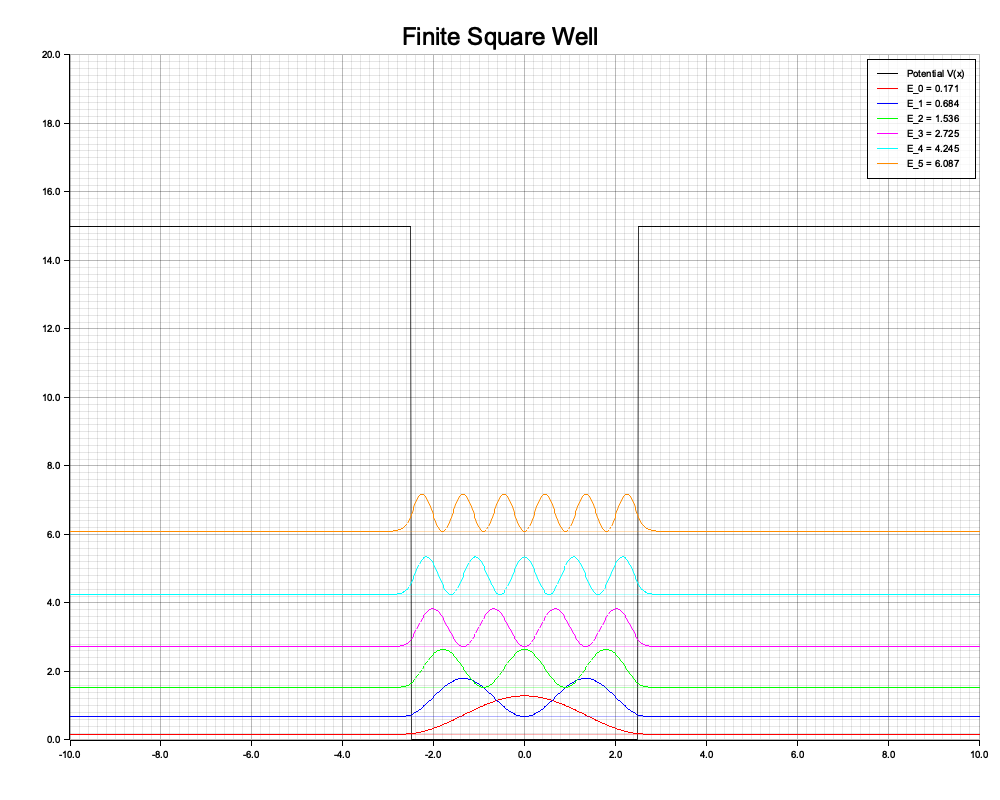
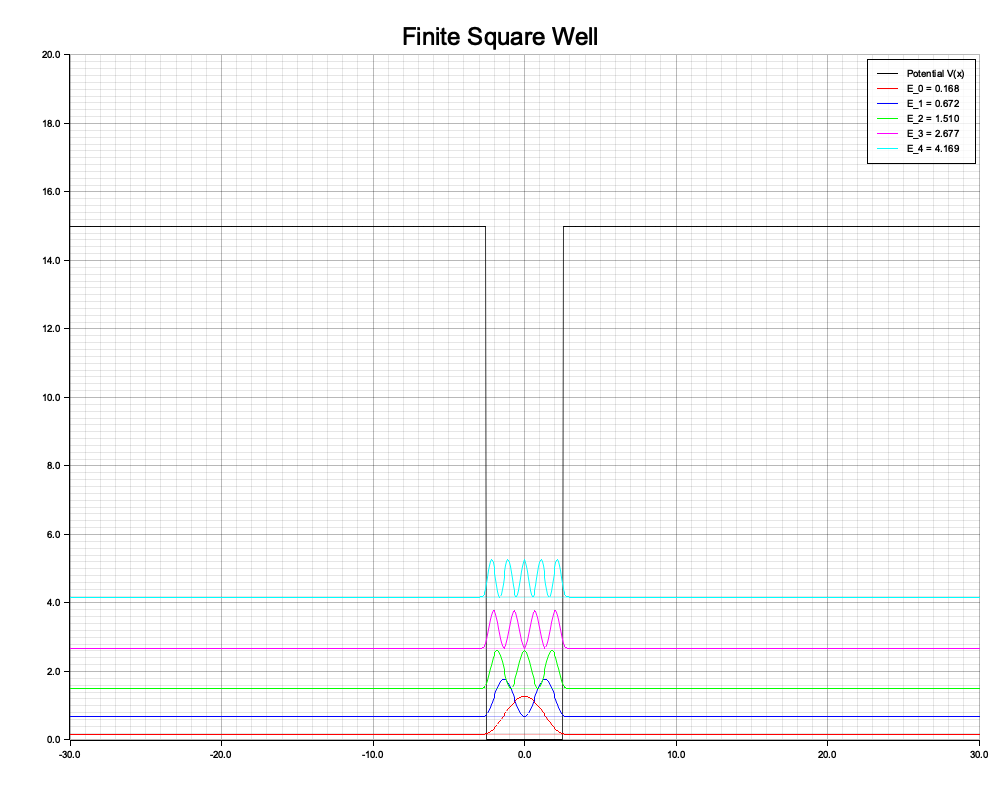
Feat: Add time-dependent eigenbasis expansion for quantum wavepacket tunneling

diff --git a/src/main.rs b/src/main.rs
@@ -1,38 +1,41 @@
 use nalgebra::{DMatrix, SymmetricEigen};
+use num_complex::Complex;
 use plotters::prelude::*;
+use std::f64::consts::PI;
 
-const N: usize = 1000; // grid points
-const L: f64 = 20.0;  // box size [-L/2, L/2]
+const N: usize = 1000;
+const L: f64 = 60.0; // wider box
 
-/// Different potential well types
 pub enum Potential {
     InfiniteSquareWell,
     FiniteSquareWell { width: f64, depth: f64 },
     HarmonicOscillator { k: f64 },
+    FiniteBarrier { width: f64, height: f64 },
 }
 
 impl Potential {
     fn value(&self, x: f64) -> f64 {
         match self {
-            Self::InfiniteSquareWell => 0.0, // Walls are implicitly infinite naturally by boundary
+            Self::InfiniteSquareWell => 0.0,
             Self::FiniteSquareWell { width, depth } => {
                 if x.abs() < *width / 2.0 { 0.0 } else { *depth }
             }
             Self::HarmonicOscillator { k } => 0.5 * k * x * x,
+            Self::FiniteBarrier { width, height } => {
+                if x.abs() < *width / 2.0 { *height } else { 0.0 }
+            }
         }
     }
 }
 
-/// Solves TISE H psi = E psi
 fn solve_tise(potential: &Potential, n_states: usize) -> Vec<(f64, Vec<f64>)> {
     let dx = L / (N as f64 - 1.0);
     let mut h = DMatrix::<f64>::zeros(N, N);
-    let t_coeff = 1.0 / (2.0 * dx * dx); // Using hbar=1, m=1
+    let t_coeff = 1.0 / (2.0 * dx * dx); 
     
     for i in 0..N {
         let x = -L / 2.0 + (i as f64) * dx;
         let v_i = potential.value(x);
-        
         h[(i, i)] = 2.0 * t_coeff + v_i;
         if i > 0 {
             h[(i, i - 1)] = -t_coeff;
@@ -48,25 +51,26 @@ fn solve_tise(potential: &Potential, n_states: usize) -> Vec<(f64, Vec<f64>)> {
     for i in 0..n_states.min(N) {
         let idx = evals[i].0;
         let energy = evals[i].1;
-        
-        // Extract eigenvector
         let col = eig.eigenvectors.column(idx);
         let mut psi: Vec<f64> = col.iter().copied().collect();
-        
-        // Normalize psi: sum(|psi|^2 dx) = 1
         let norm_sq: f64 = psi.iter().map(|&p| p * p * dx).sum();
         let norm = norm_sq.sqrt();
         for p in &mut psi { *p /= norm; }
         
-        // Ensure consistent phase (first large peak is positive)
-        let max_elem = psi.iter().max_by(|a, b| a.abs().partial_cmp(&b.abs()).unwrap()).unwrap();
-        if *max_elem < 0.0 {
+        let mut max_abs = 0.0;
+        let mut max_elem = 0.0;
+        for &p in &psi {
+            if p.abs() > max_abs {
+                max_abs = p.abs();
+                max_elem = p;
+            }
+        }
+        
+        if max_elem < 0.0 {
             for p in &mut psi { *p = -*p; }
         }
-
         results.push((energy, psi));
     }
-    
     results
 }
 
@@ -83,61 +87,133 @@ fn plot_results(
     
     let root = BitMapBackend::new(filename, (1000, 800)).into_drawing_area();
     root.fill(&WHITE)?;
-    
     let max_x = L / 2.0;
-    let min_x = -max_x;
-
+    
     let mut chart = ChartBuilder::on(&root)
         .caption(title, ("sans-serif", 30))
         .margin(20)
         .x_label_area_size(40)
         .y_label_area_size(50)
-        .build_cartesian_2d(min_x..max_x, 0.0..y_max)?;
-
+        .build_cartesian_2d(-max_x..max_x, 0.0..y_max)?;
     chart.configure_mesh().draw()?;
 
-    // Plot potential
     chart.draw_series(LineSeries::new(
         xs.iter().zip(vs.iter()).filter(|&(_, &v)| v <= y_max + 10.0).map(|(&x, &v)| (x, v)),
         &BLACK.mix(0.8),
-    ))?
-    .label("Potential V(x)")
-    .legend(|(x, y)| PathElement::new(vec![(x, y), (x + 20, y)], &BLACK));
+    ))?.label("Potential V(x)").legend(|(x, y)| PathElement::new(vec![(x, y), (x + 20, y)], &BLACK));
 
     let colors = [&RED, &BLUE, &GREEN, &MAGENTA, &CYAN, &RGBColor(255, 140, 0)];
-    let factor = 3.0; // scaling factor for probability density
+    let factor = 3.0; 
 
-    // Plot states
     for (i, (energy, psi)) in results.iter().enumerate() {
         let color = colors[i % colors.len()];
-        
         let path: Vec<(f64, f64)> = xs.iter().zip(psi.iter())
-            .map(|(&x, &p)| (x, *energy + factor * p * p))
-            .collect();
-            
+            .map(|(&x, &p)| (x, *energy + factor * p * p)).collect();
         chart.draw_series(LineSeries::new(path, color))?
             .label(format!("E_{} = {:.3}", i, energy))
             .legend(move |(x, y)| PathElement::new(vec![(x, y), (x + 20, y)], color));
-            
-        // Plot energy level line
-        chart.draw_series(LineSeries::new(
-            vec![(min_x, *energy), (max_x, *energy)],
-            color.mix(0.3),
-        ))?;
+        chart.draw_series(LineSeries::new(vec![(-max_x, *energy), (max_x, *energy)], color.mix(0.3)))?;
     }
-
-    chart.configure_series_labels()
-        .background_style(&WHITE.mix(0.8))
-        .border_style(&BLACK)
-        .position(SeriesLabelPosition::UpperRight)
-        .draw()?;
-
+    chart.configure_series_labels().background_style(&WHITE.mix(0.8)).border_style(&BLACK).position(SeriesLabelPosition::UpperRight).draw()?;
     root.present()?;
     Ok(())
 }
 
+fn simulate_tunneling() -> Result<(), Box<dyn std::error::Error>> {
+    println!("Simulating tunneling... Solving complete eigensystem (this takes a few seconds)");
+    // A barrier at the center with width 2 and height 12.0
+    let barrier = Potential::FiniteBarrier { width: 3.0, height: 12.0 };
+    let dx = L / (N as f64 - 1.0);
+    
+    // We get 600 states to form a good detailed basis for the localized wavepacket
+    let num_states = 600;
+    let results = solve_tise(&barrier, num_states);
+    
+    // Initial Wavepacket properties
+    let x0 = -15.0;            // start on the left
+    let sigma: f64 = 2.0;      // width
+    // Average Energy roughly = k0^2 / 2 = 12.5 (a bit over or around the barrier)
+    let k0: f64 = 5.0;         // initial momentum
+    
+    // Construct psi_0
+    let mut psi_0 = vec![Complex::new(0.0, 0.0); N];
+    let mut norm_sq = 0.0;
+    for i in 0..N {
+        let x = -L / 2.0 + (i as f64) * dx;
+        let envelope = (-0.5 * ((x - x0) / sigma).powi(2)).exp();
+        psi_0[i] = Complex::new(envelope * (k0 * x).cos(), envelope * (k0 * x).sin());
+        norm_sq += psi_0[i].norm_sqr() * dx;
+    }
+    let norm = norm_sq.sqrt();
+    for p in &mut psi_0 { *p /= norm; }
+    
+    // c_n = <psi_n | psi_0>
+    let mut c_n = vec![Complex::new(0.0, 0.0); num_states];
+    for n in 0..num_states {
+        let mut c = Complex::new(0.0, 0.0);
+        for i in 0..N {
+            c += psi_0[i] * results[n].1[i] * dx;
+        }
+        c_n[n] = c;
+    }
+    
+    // Render loop
+    println!("Rendering gif...");
+    let root = BitMapBackend::gif("tunneling.gif", (1000, 600), 100)?.into_drawing_area();
+    let num_frames = 150;
+    let dt = 0.02;
+    let max_x = 25.0; // zoom in somewhat
+    let min_x = -max_x;
+    
+    let xs: Vec<f64> = (0..N).map(|i| -L / 2.0 + (i as f64) * dx).collect();
+    let vs: Vec<f64> = xs.iter().map(|&x| barrier.value(x)).collect();
+    let v_path: Vec<(f64, f64)> = xs.iter().zip(vs.iter()).filter(|&(_, &v)| v <= 15.0).map(|(&x, &v)| (x, v)).collect();
+    
+    for frame in 0..num_frames {
+        let t = (frame as f64) * dt;
+        
+        let mut psi_t = vec![Complex::new(0.0, 0.0); N];
+        for n in 0..num_states {
+            let energy = results[n].0;
+            // e^{-i E_n t}
+            let phase = -energy * t;
+            let time_factor = c_n[n] * Complex::new(phase.cos(), phase.sin());
+            for i in 0..N {
+                psi_t[i] += time_factor * results[n].1[i];
+            }
+        }
+        
+        root.fill(&WHITE)?;
+        let mut chart = ChartBuilder::on(&root)
+            .caption(format!("Quantum Tunneling (t = {:.2})", t), ("sans-serif", 30))
+            .margin(20)
+            .x_label_area_size(40)
+            .y_label_area_size(50)
+            .build_cartesian_2d(min_x..max_x, 0.0..18.0)?;
+            
+        chart.configure_mesh().draw()?;
+        
+        chart.draw_series(LineSeries::new(v_path.clone(), &BLACK.mix(0.8)))?
+            .label("Barrier V(x)");
+            
+        let density: Vec<(f64, f64)> = xs.iter().zip(psi_t.iter())
+            .map(|(&x, &p)| (x, p.norm_sqr() * 25.0)) // scale probability up for visibility
+            .collect();
+            
+        chart.draw_series(AreaSeries::new(density.clone(), 0.0, &BLUE.mix(0.2)))?;
+        chart.draw_series(LineSeries::new(density, &BLUE))?
+            .label("Probability Density |ψ|²");
+            
+        chart.configure_series_labels().position(SeriesLabelPosition::UpperRight).draw()?;
+        root.present()?;
+    }
+    
+    println!("tunneling.gif generated.");
+    Ok(())
+}
+
 fn main() -> Result<(), Box<dyn std::error::Error>> {
-    let num_states = 6;
+    let num_states = 5;
     
     println!("Solving Infinite Square Well...");
     let isw = Potential::InfiniteSquareWell;
@@ -154,6 +230,8 @@ fn main() -> Result<(), Box<dyn std::error::Error>> {
     let results_qho = solve_tise(&qho, num_states);
     plot_results(&qho, &results_qho, "harmonic_oscillator.png", "Quantum Harmonic Oscillator", results_qho.last().unwrap().0 + 5.0)?;
     
-    println!("Plots generated successfully.");
+    simulate_tunneling()?;
+    
+    println!("All plots generated successfully.");
     Ok(())
 }

diff --git a/README.md b/README.md
@@ -16,6 +16,11 @@ The plots correctly reflect quantum physics behaviors—the lower energy wavefun
 
 ![Quantum Harmonic Oscillator](harmonic_oscillator.png)
 
+## Dynamic Quantum Tunneling
+Using an exact mathematical Eigenbasis Expansion combined onto our engine, we simulated the exact Time-Dependent Schrödinger evolution showcasing a bounded continuous Gaussian wavepacket striking a strong finite barrier and tunneling dynamically.
+
+![Quantum Tunneling Wavepacket Timeline](tunneling.gif)
+
 ## Validation Methods Tested
 - Automated tests using `cargo run` accurately completed computations.
 - Inspected the zero-boundary vanishing limits and boundary penetrations. As predicted, the wave packet penetrates inside the wall regions in the **Finite Square Well** and **Harmonic Oscillator**, but strictly zeroes out at the boundary of the **Infinite Square Well**.
